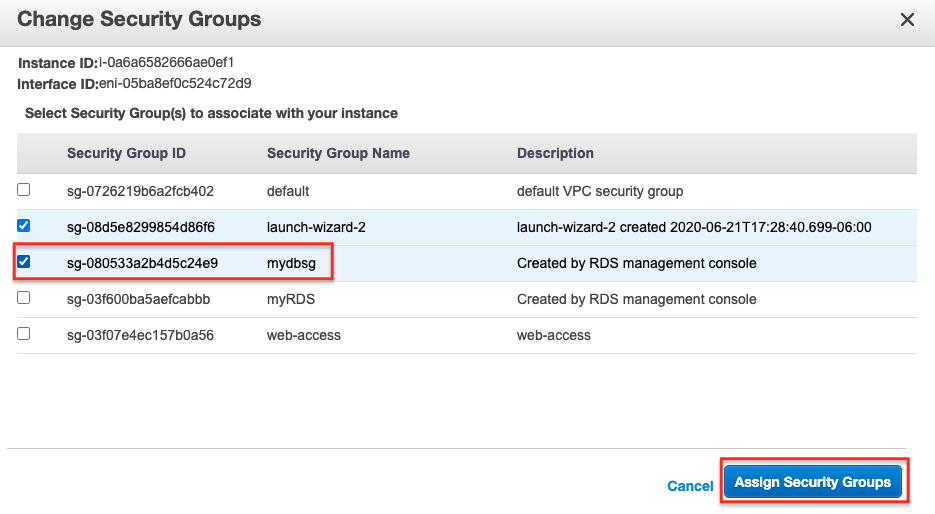
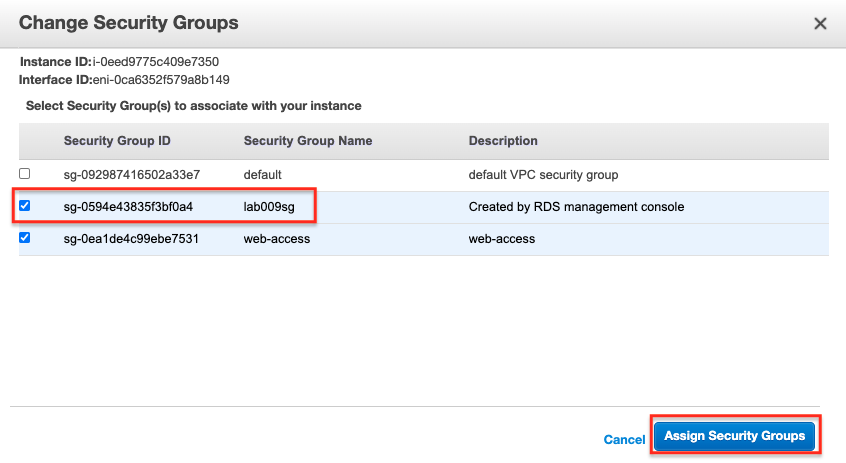
updates

diff --git a/lab-009/README.md b/lab-009/README.md
@@ -30,12 +30,12 @@ Below are some of the main options you should select:
 * Database creation method: Standard Create
 * Engine option: MySQL
 * Templates: Free tier
-* DB instance identifier: lab-009
+* DB instance identifier: lab009
 * Master password: 12345678 (not safe but this is just a lab)
 * DB instance size: Standard classes
 * Storage: default options are fine for this lab
 * Multi-az deployment: if you selected the *free tier* template you should not even be able to select *multi-az deployment* options
-* Connectivity: set your custom VPC as the one where your RDS instance will run; in the additional connectivity configuration - VPC security group, choose *Create new* and name it *lab-009sg*; finally for the availability zone choose the one suffixed with 1a (or the first option that appears to you)
+* Connectivity: set your custom VPC as the one where your RDS instance will run; in the additional connectivity configuration - VPC security group, choose *Create new* and name it *lab009sg*; finally for the availability zone choose the one suffixed with 1a (or the first option that appears to you)
 * Additional configurations: set the initial database name to *lab009* and disable automatic backups
 
 ![lab-009-scrn-01](images/lab-009-scrn-01.png)
@@ -44,13 +44,35 @@ Below are some of the main options you should select:
 
 Configure an EC2 instance in the public subnet in the same AZ where your RDS instance was launched. Use the [user-data](files/user-data.sh). Create a security group that allows SSH and HTTP access to your instance from anywhere.
 
-### Step 4 - Apply RDS Security Group to EC2 Instance
+### Step 4 - Apply RDS's Security Group to EC2 Instance
 
 In order for your EC2 instance to be able to access the RDS instance it has to be in the same security group created in step 2.
 
 ![lab-009-scrn-02](images/lab-009-scrn-02.png)
 ![lab-009-scrn-03](images/lab-009-scrn-03.png)
 
+### Step 5 - Configure phpMyAdmin
+
+* Connect to your EC2 instance via SSH
+* Run the following commands (requires privileged access):
+
+```
+cd /var/www/html
+tar xvf phpMyAdmin-latest-all-languages.tar.gz
+rm -rf phpMyAdmin-latest-all-languages.tar.gz
+ln -s phpMyAdmin-5.0.2-all-languages phpMyAdmin
+cd phpMyAdmin
+cp config.sample.inc.php config.inc.php
+```
+
+Edit *config.inc.php* and search for a reference to *localhost*. Replace it with your RDS instance endpoint.
+
+![lab-009-scrn-04](images/lab-009-scrn-04.png)
 
 ## Test and Validation
-Provide some guidance on how to test the lab and validate whether it is doing what is suppose to do.
+
+Open a browser and using the EC2 instance's public IP address, connect to the database via phpMyAdmin.
+
+```
+http://<public IP EC2 instance>/phpMyAdmin
+```
